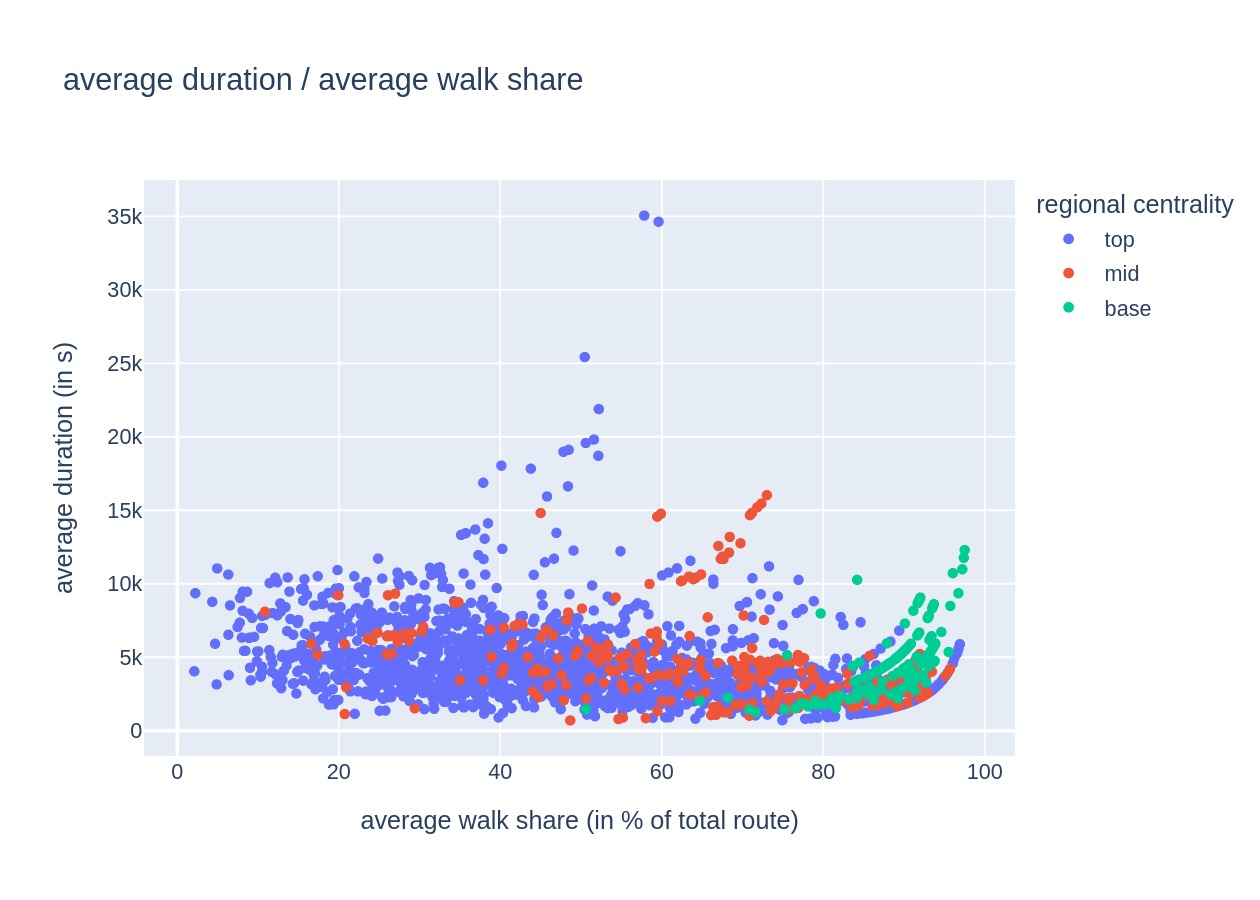
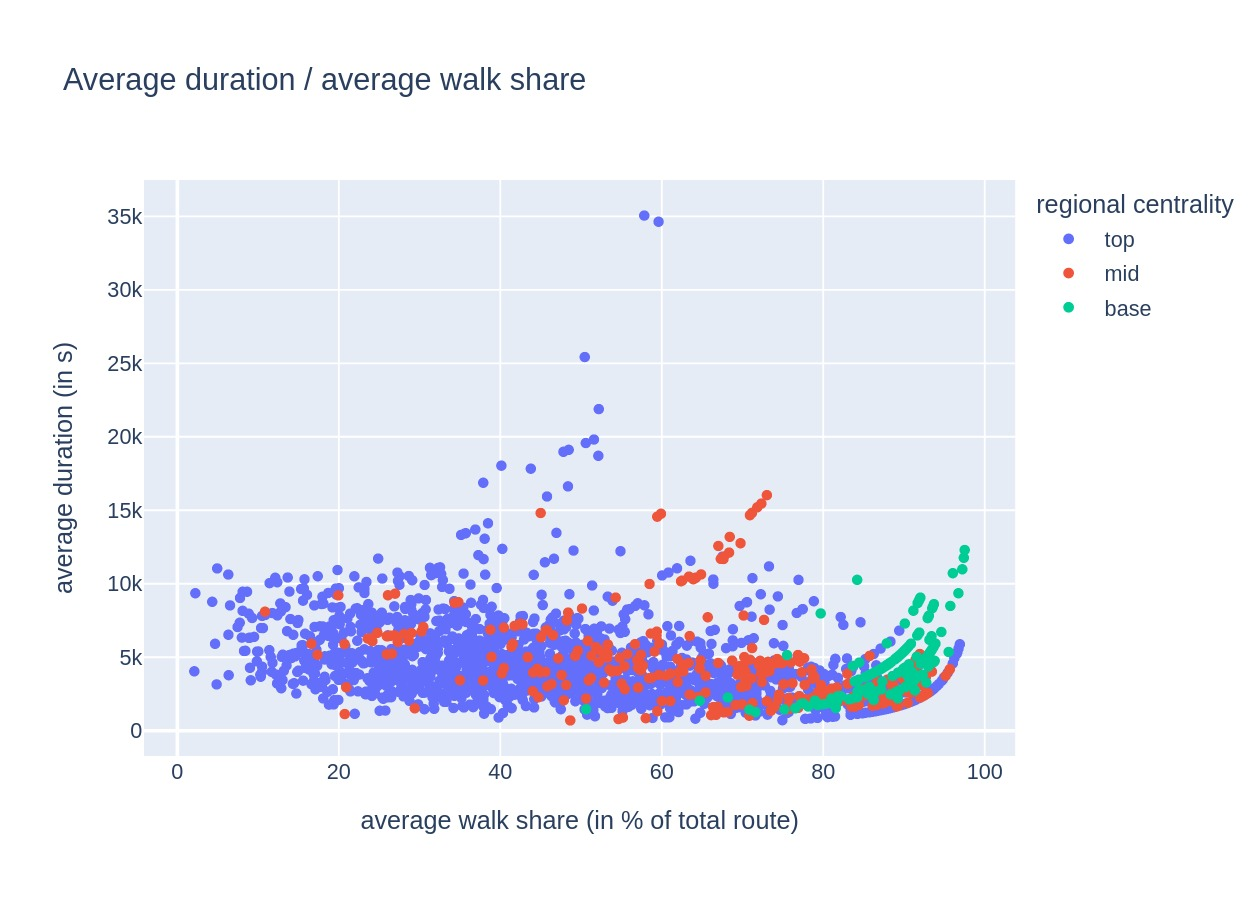
fix: capitalise plot titles

Changed region(s): [[0.031, 0.0622, 0.4643, 0.1244]]

diff --git a/scripts/analysis/create_plots.py b/scripts/analysis/create_plots.py
@@ -15,7 +15,7 @@ def bar_chart(column, color, x, filespec, prefix='analysis', path_end='15-18-21_
     sorted_df = df.sort_values(by=color)
 
     if title is None and column is not None:
-        title = f'{column.replace("_", " ")} in {filespec.replace("_", " ")}'
+        title = f'{column.replace("_", " ").capitalize()} in {filespec.replace("_", " ")}'
 
     if x == 'departure time':
         sorted_df['departure time'] = sorted_df['departure time'].astype(str)
@@ -38,7 +38,7 @@ def actual_bar_chart(column, color, x, filespec, prefix='analysis', path_end='15
     sorted_df = df.sort_values(by=color)
 
     if title is None:
-        title = f'{column.replace("_", " ")} in {filespec.replace("_", " ")}'
+        title = f'{column.replace("_", " ").capitalize()} in {filespec.replace("_", " ")}'
 
     fig = bar(sorted_df, x=x, y=column, color=color, color_discrete_map=assigned_color, color_continuous_scale=['#636efa', '#ef553b'],
               title=title, labels=labels, category_orders=order)
@@ -54,7 +54,7 @@ def all_box_chart(column, color, x, filespec, prefix='analysis', path_end='15-18
                   title=None, labels=None, order=None):
     df = read_csv(path.join(RESULTS_PATH, 'analysis', f'{prefix}_{filespec}_{path_end}.csv'))
     if title is None:
-        title = f'{column} in {filespec}'
+        title = f'{column.capitalize()} in {filespec}'
     title = title.replace('_', ' ')
 
     fig = box(df, x=x, y=column, color=color, title=title, labels=labels, category_orders=order)
@@ -69,7 +69,7 @@ def scatter_chart(dependent, independent, color=None, prefix='analysis', path_en
                   title=None, labels=None):
     df = read_csv(path.join(RESULTS_PATH, 'analysis', f'{prefix}_{path_end}.csv'))
     if title is None:
-        title = f'{dependent.replace("_", " ")} / {independent.replace("_", " ")}'
+        title = f'{dependent.replace("_", " ").capitalize()} / {independent.replace("_", " ")}'
 
     fig = scatter(df, x=independent, y=dependent, color=color, title=title, labels=labels)
 
@@ -83,7 +83,7 @@ if __name__ == "__main__":
     pe = '15-18-21_Sat_104'
 
     bar_chart('average duration', 'level', 'area', 'starts_variables_filled', 'all', pe, 'all_overview',
-              title='average duration per start point',
+              title='Average duration per start point',
               labels={
                   'average duration': 'average duration (in s)',
                   'level': 'regional centrality'},
@@ -92,7 +92,7 @@ if __name__ == "__main__":
 
     for var in ['average duration', 'average speed', 'distance_start_cinema']:
         all_box_chart(var, 'level', 'area', 'analysis_filled', 'all', pe, 'all',
-                      title=f'data distribution {var}',
+                      title=f'Data distribution {var}',
                       labels={'average duration': 'average duration (in s)',
                               'average speed': 'average speed (in m/s)',
                               'distance_start_cinema': 'distance from start point to cinema (in m)',
@@ -117,7 +117,7 @@ if __name__ == "__main__":
 
         for var in ['distance_start_cinema']:
             scatter_chart('average duration', var, None, f'analysis_{name}', pe, name,
-                          title=f'average duration in {name}',
+                          title=f'Average duration in {name}',
                           labels={'average duration': 'average duration (in s)',
                                   'distance_start_cinema': 'distance from start point to cinema (in m)'})
 
@@ -138,7 +138,7 @@ if __name__ == "__main__":
                       order={'group': GROUP_ORDER})
 
         actual_bar_chart('osm_cinemas', 'likely count', 'group', name, 'groups_cum', 'average', f'likely_{name}',
-                         title=f'cinemas accessible within "social life and entertainment" time frame<br>in {name}',
+                         title=f'Cinemas accessible within "social life and entertainment" time frame<br>in {name}',
                          labels={'osm_cinemas': 'routes to cinemas',
                                  'likely count': 'accessible<br>cinemas'},
                          order={'group': GROUP_ORDER})
